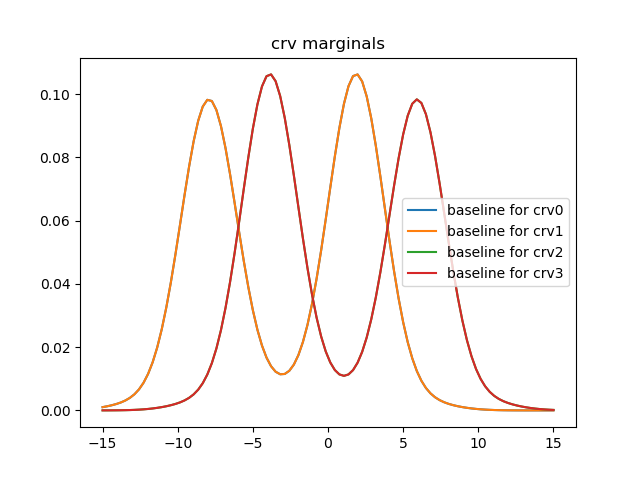
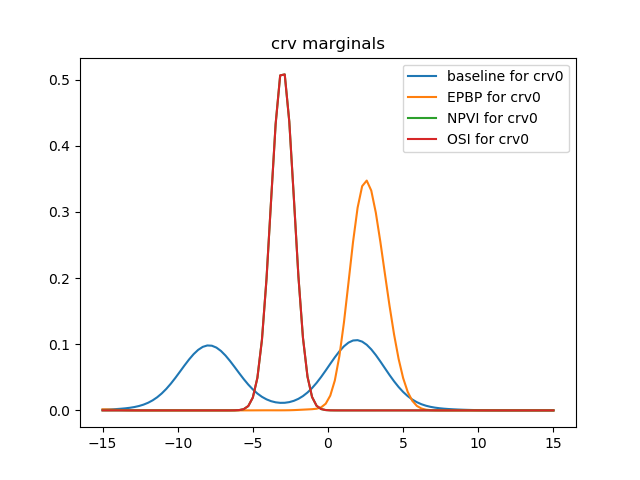
run EPBP, NPVI, OSI on hmln_citation_experiment; EPBP latches on to one mode, OSI/NPVI basically converge to mean field solution (one component takes over)
baseline:
{'cpu_time': (0.0, 0.0),
 'kl_err': (0.0, 0.0),
 'mmap_err': (0.0, 0.0),
 'obj': (-2.408181021579915, 0.0),
 'wall_time': (0.0, 0.0)}
EPBP:
{'cpu_time': (2.775318886, 0.0),
 'kl_err': (7.204718174938179, 0.0),
 'mmap_err': (1.0775502740980858, 0.0),
 'obj': (-1.0, 0.0),
 'wall_time': (2.7753331661224365, 0.0)}
NPVI:
{'cpu_time': (7.991627389999998, 0.0),
 'kl_err': (35.51579948518258, 0.0),
 'mmap_err': (7.235448202334165, 0.0),
 'obj': (3.886568446162027, 0.0),
 'wall_time': (7.917045593261719, 0.0)}
OSI:
{'cpu_time': (8.085572958, 0.0),
 'kl_err': (22.544052825901556, 0.0),
 'mmap_err': (7.235445302118583, 0.0),
 'obj': (3.276206614064341, 0.0),
 'wall_time': (7.97907829284668, 0.0)}

diff --git a/osi/hmln_citation_experiment.py b/osi/hmln_citation_experiment.py
@@ -111,7 +111,7 @@ record_fields = ['cpu_time',
                  'mmap_err',  # |argmax p(xi) - argmax q(xi)|, avg over all nodes i
                  'kl_err',  # kl(p(xi)||q(xi)), avg over all nodes i
                  ]
-algo_names = ['baseline']  # , 'EPBP', 'NPVI']
+algo_names = ['baseline', 'EPBP', 'NPVI', 'OSI']
 # algo_names = ['baseline', 'NPVI', 'OSI', ]
 # algo_names = ['baseline', 'NPVI', 'LNPVI', 'OSI', 'LOSI']
 # algo_names = ['baseline', 'EPBP']
@@ -367,7 +367,7 @@ plt.figure()
 xs = np.linspace(domain_real.values[0], domain_real.values[1], 100)
 
 crv_idxs_to_plot = list(range(len([rv for rv in query_rvs if rv.domain_type[0] == 'c'])))
-num_to_plot = len(crv_idxs_to_plot)
+num_to_plot = 1
 crv_idxs_to_plot = crv_idxs_to_plot[:num_to_plot]
 for test_crv_idx in crv_idxs_to_plot:
     # for test_crv_idx in range(len(query_rvs)):
